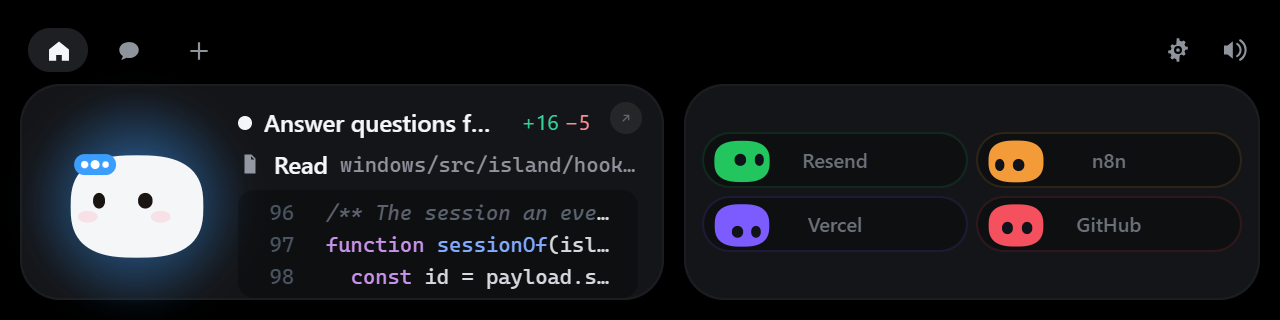
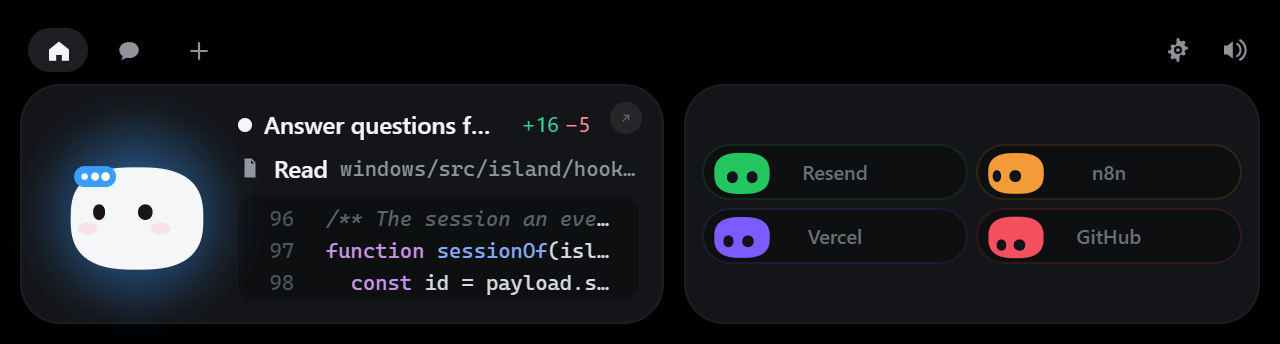
Windows: the session's card keeps the same air under its last line as above its first
The look at what a step did was cut for three lines in a card made for two rows of ticker: its last line sat on the card's bottom edge. The card now fills its height with the same margin at both ends and the preview takes what is left, and the island is twelve pixels taller while a session's card is on show, so the three lines fit.

diff --git a/windows/src/views/views.ts b/windows/src/views/views.ts
@@ -5,7 +5,7 @@
 import { h, svg, clear, dot, replay } from "./dom";
 import { ICONS } from "./icons";
 import { CLAUDE_ID, State, TURN_DONE, turnSteps, type AgentTask, type ClaudeSession, type SessionStep } from "../core/state";
-import { fittedHeight, washRGBA, type BotEmoteName, type BotStateName, type IslandViewName, type Wash } from "../core/layout";
+import { VIEW_LAYOUTS, fittedHeight, washRGBA, type BotEmoteName, type BotStateName, type IslandViewName, type Wash } from "../core/layout";
 import { createMiniBot, pruneMiniBots } from "../mochi/minibots";
 import { buildPrompt } from "./chat";
 import { buildChoose, buildUpload, buildUploading } from "./upload";
@@ -71,6 +71,12 @@ export interface ViewActions {
 
 /** Lines of a step's preview the overview has room for. */
 const NOW_LINES = 3;
+/**
+ * A session's card holds a line more than the overview was cut for — the
+ * step, then three lines of what it did: the island is this much taller for
+ * it, so the card keeps the same air under its last line as above its first.
+ */
+const SESSION_CARD_ROOM = 12;
 
 /** A reply's first line as plain words: what marks it as bold, a heading or code goes. */
 function firstWords(text: string | null): string | null {
@@ -248,7 +254,7 @@ export function buildHeader(actions: ViewActions): ViewHost {
 
 // ── Overview ──────────────────────────────────────────────────────────────────
 
-function buildOverview(actions: ViewActions): ViewHost {
+function buildOverview(actions: ViewActions, onResize: () => void): ViewHost {
   const who = h("div", { class: "who" });
   // What the session is doing: the step, and under it a look at what it did.
   const nowLine = h("div", { class: "now-line" });
@@ -258,7 +264,7 @@ function buildOverview(actions: ViewActions): ViewHost {
     actions.blip();
     actions.openSessions();
   });
-  const sessionBody = h("div", { class: "card-body" }, who, nowLine, nowBox);
+  const sessionBody = h("div", { class: "card-body sess-card" }, who, nowLine, nowBox);
   const leftBody = h("div", { class: "left-body" });
   const jump = h(
     "button",
@@ -289,6 +295,8 @@ function buildOverview(actions: ViewActions): ViewHost {
   let cardKey = "";
   let lineKey = "";
   let boxKey = "";
+  /** The mode the island's height was last asked for. */
+  let sized: "session" | "card" | null = null;
 
   const hooks: IntegrationCardHooks = {
     get detailOpen() {
@@ -349,6 +357,9 @@ function buildOverview(actions: ViewActions): ViewHost {
 
   return {
     el,
+    get height() {
+      return mode === "session" ? VIEW_LAYOUTS.overview.height + SESSION_CARD_ROOM : undefined;
+    },
     sync() {
       const task = State.focusTask;
       if (task?.id !== lastFocus) {
@@ -405,6 +416,10 @@ function buildOverview(actions: ViewActions): ViewHost {
       }
 
       jump.style.display = detailOpen ? "none" : "";
+      if (mode !== sized) {
+        sized = mode;
+        onResize();
+      }
 
       left.classList.toggle("opens", mode === "session");
       left.title = mode === "session" ? "Open the session" : "";
@@ -1000,7 +1015,7 @@ export function buildViews(
   onChatHeightChange: () => void,
 ): Map<IslandViewName, ViewHost> {
   const map = new Map<IslandViewName, ViewHost>();
-  map.set("overview", buildOverview(actions));
+  map.set("overview", buildOverview(actions, onChatHeightChange));
   map.set("empty", buildEmpty(actions));
   map.set("approval", buildApproval(actions));
   map.set("question", buildQuestion(actions, onChatHeightChange));

diff --git a/windows/src/style.css b/windows/src/style.css
@@ -3687,9 +3687,24 @@ button.gh-block:hover {
   display: flex;
   align-items: center;
   gap: 6px;
-  margin: 5px 12px 0 108px;
+  margin: 0 12px 0 108px;
   min-width: 0;
-  height: 16px;
+  flex: 0 0 16px;
+}
+
+/* The session's card fills its height, with the same air under its last line
+   as above its first: the look at what the step did takes what is left. */
+.card-body.sess-card {
+  height: 100%;
+  box-sizing: border-box;
+  display: flex;
+  flex-direction: column;
+  gap: 6px;
+  padding: 11px 0;
+}
+
+.sess-card > .who {
+  flex: 0 0 auto;
 }
 
 .now-line > i {
@@ -3723,8 +3738,9 @@ button.gh-block:hover {
 }
 
 .now-box {
-  margin: 5px 12px 0 108px;
-  height: 54px;
+  flex: 1 1 0;
+  min-height: 0;
+  margin: 0 12px 0 108px;
   padding: 3px 0;
   border-radius: 8px;
   background: var(--card-flat);
